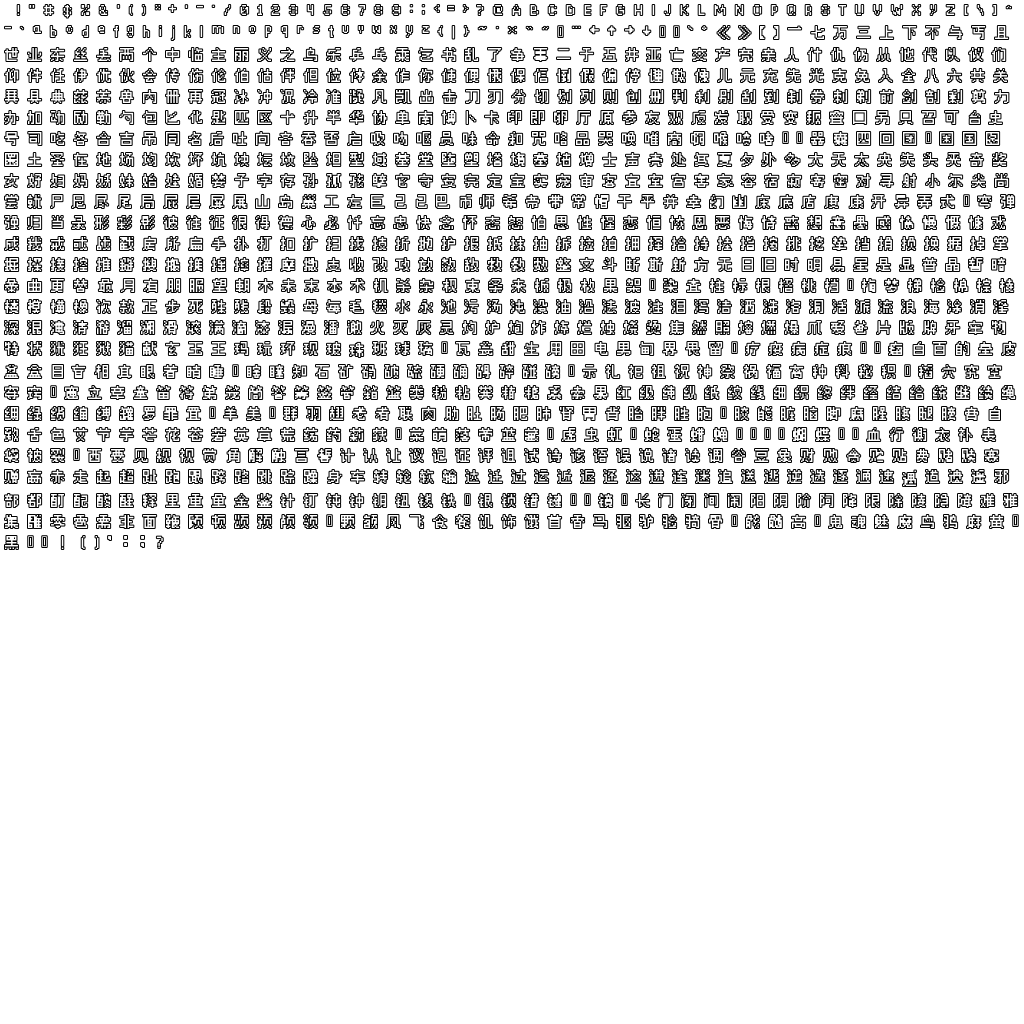
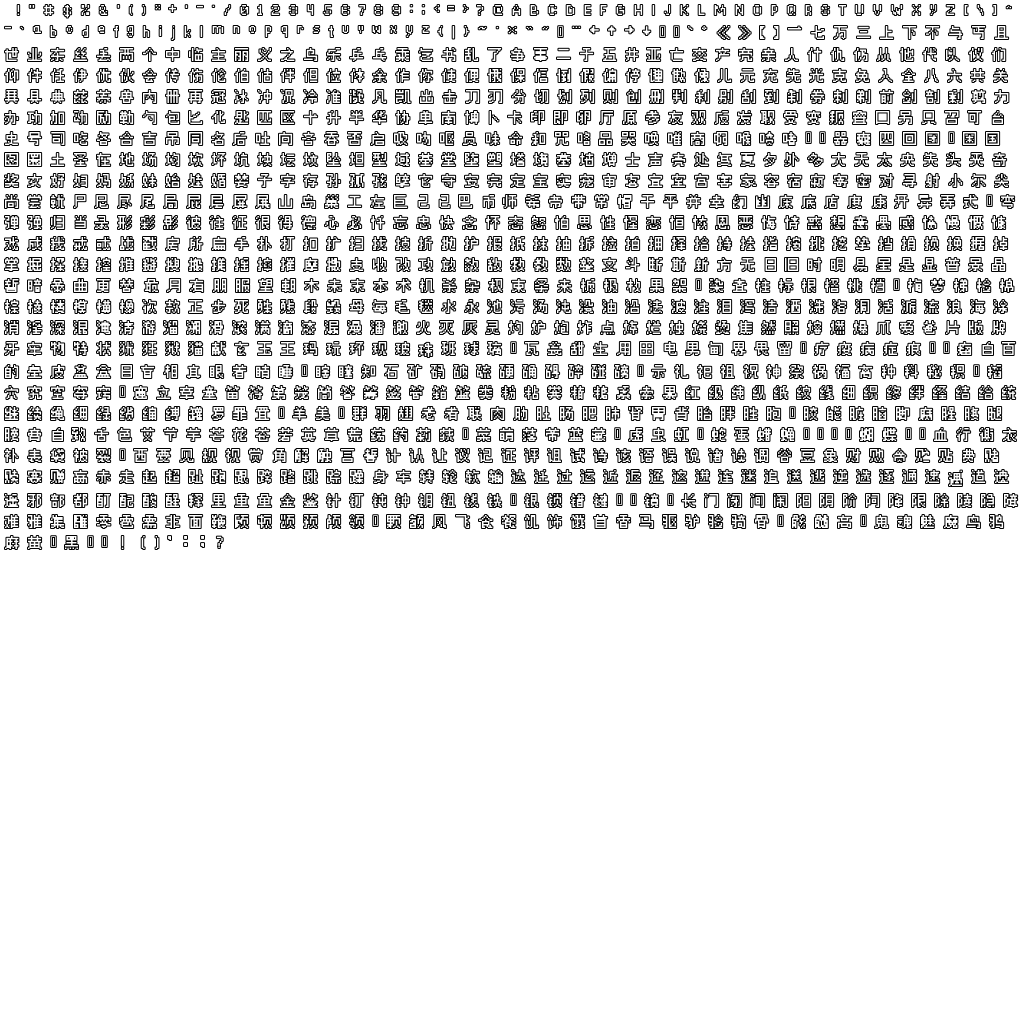
v.0.7.0 更换为steam成就图标，并优化分类

Changed region(s): [[0.0, 0.0938, 1.0, 0.5625]]

diff --git a/tests/mod-contract.test.js b/tests/mod-contract.test.js
@@ -139,6 +139,27 @@ test("F3 mouse hover selects visible tiles and a left-click edge toggles trackin
     "blocked mouse shooting must return the correct value for analog input hooks");
 });
 
+test("F3 untracking keeps the current list position until the next refresh", () => {
+  const menu = read("scripts/ui/menu.lua");
+  const toggle = menu.match(/local function toggleGoal[\s\S]*?\nend\n\nlocal function typedSearchCharacter/);
+  assert.ok(toggle, "toggleGoal must remain the shared keyboard and mouse tracking path");
+  assert.match(toggle[0], /local wasTracked = Tracker\.contains\(state\.tracker, goal\.id\)/);
+  assert.match(toggle[0], /Tracker\.toggle\(state\.tracker, goal\.id\)/);
+  assert.match(toggle[0], /state\.settings\.tracked = state\.tracker\.ids[\s\S]*?save\(\)/,
+    "both tracking directions must persist immediately");
+  assert.match(toggle[0], /if not wasTracked then refreshGoals\(state, context, true\) end/,
+    "only newly tracked goals should trigger an immediate reorder");
+  assert.equal((toggle[0].match(/refreshGoals\(/g) || []).length, 1,
+    "untracking must not have a second unconditional refresh path");
+  assert.doesNotMatch(toggle[0], /state\.menu\.(?:cursor|offset)\s*=/,
+    "untracking must leave the current selection and page untouched");
+  assert.match(menu, /if queryChanged then[\s\S]*?refreshGoals\(state, context, false\)/);
+  assert.match(menu, /Keyboard\.KEY_TAB[\s\S]*?refreshGoals\(state, context, false\)/);
+  assert.match(menu, /Keyboard\.KEY_F3[\s\S]*?refreshGoals\(state, nil, false\)/);
+  assert.match(menu, /toggleGoal\(state, goals\[activatedIndex\], save, context\)/,
+    "keyboard and mouse activation must share the delayed-untracking behavior");
+});
+
 test("F3 consumes only controller-zero gameplay actions owned by menu keys", () => {
   const menu = read("scripts/ui/menu.lua");
   assert.match(menu, /local SHOOT_KEYS = \{/);
@@ -185,7 +206,7 @@ test("reward metadata is normalized once for completion detection and display", 
   assert.match(rewards, /function Rewards\.config/);
   assert.match(rewards, /function Rewards\.display/);
   for (const kind of ["collectible", "trinket", "card", "pickup", "slot", "grid",
-    "character", "area", "challenge", "feature", "other"]) {
+    "character", "monster", "area", "challenge", "feature", "other"]) {
     assert.match(rewards, new RegExp(`\\b${kind}\\b`));
   }
   assert.doesNotMatch(unlocks, /local rewards\s*=\s*{/);
@@ -234,8 +255,9 @@ test("F3 maps achievement-unlocked world entities to semantic reward metadata", 
   assert.match(rewards, /variant=reward\.variant/);
   assert.match(rewards, /subtype=reward\.subtype/);
   assert.match(rewards, /gridType=reward\.gridType/);
-  assert.match(rewards, /return "other"/,
-    "world entity rewards must remain in the existing Other filter");
+  assert.match(rewards, /pickup="pickup"/);
+  assert.match(rewards, /slot="world"/);
+  assert.match(rewards, /grid="world"/);
 });
 
 test("F3 world entity icons use native game actors with static frames and fallback", () => {
@@ -282,17 +304,120 @@ test("F3 world entity icons use native game actors with static frames and fallba
   }
 });
 
-test("F3 localizes and searches world entity reward kinds without adding filters", () => {
+test("F3 exposes every semantic reward group as a single-level filter", () => {
   const goals = read("scripts/data/goals.lua");
+  const rewards = read("scripts/core/rewards.lua");
   const menu = read("scripts/ui/menu.lua");
   const text = read("scripts/ui/text.lua");
-  for (const kind of ["pickup", "slot", "grid"]) {
+  for (const [kind, labelCount] of [["pickup", 4], ["slot", 2], ["grid", 2]]) {
     assert.match(goals, new RegExp(`${kind}="[^"]+"`));
-    assert.equal((text.match(new RegExp(`${kind}="`, "g")) || []).length, 2,
+    assert.equal((text.match(new RegExp(`${kind}="`, "g")) || []).length, labelCount,
       `${kind} must have Chinese and English labels`);
   }
-  assert.match(menu, /local FILTERS = \{ "all", "collectible", "trinket", "card", "other" \}/);
-  assert.doesNotMatch(menu, /local FILTERS = \{[^\n]*"pickup"/);
+  assert.match(menu, /local FILTERS = \{ "all", "collectible", "trinket", "card",\s*\n\s*"character", "monster", "area", "challenge", "pickup", "world",\s*\n\s*"feature", "other" \}/);
+  for (const [filter, labelCount] of [
+    ["character", 4], ["monster", 4], ["area", 4], ["challenge", 4],
+    ["pickup", 4], ["world", 2], ["feature", 4]
+  ]) {
+    assert.equal((text.match(new RegExp(`${filter}="`, "g")) || []).length, labelCount,
+      `${filter} must have Chinese and English filter labels`);
+  }
+  for (const [kind, filter] of [
+    ["collectible", "collectible"], ["trinket", "trinket"], ["card", "card"],
+    ["pickup", "pickup"], ["slot", "world"], ["grid", "world"],
+    ["character", "character"], ["monster", "monster"], ["area", "area"],
+    ["challenge", "challenge"], ["feature", "feature"], ["other", "other"]
+  ]) assert.match(rewards, new RegExp(`${kind}="${filter}"`));
+  for (const aliases of [
+    /collectible="[^"]*item[^"]*道具/, /trinket="[^"]*饰品/,
+    /card="[^"]*卡牌/, /character="[^"]*人物/,
+    /monster="[^"]*monster[^"]*怪物/, /area="[^"]*location[^"]*地点/,
+    /challenge="[^"]*挑战/, /pickup="[^"]*掉落物/,
+    /slot="[^"]*scenery[^"]*机器与场景/, /grid="[^"]*scenery[^"]*机器与场景/,
+    /feature="[^"]*mechanic[^"]*机制/, /other="[^"]*其他/
+  ]) assert.match(goals, aliases);
+  assert.match(menu, /string\.format\(labels\.filterStatus, name, active, #FILTERS\)/);
+});
+
+test("non-standard achievement rewards use explicit semantic metadata", () => {
+  const goals = read("scripts/data/goals.lua");
+  const rewards = read("scripts/core/rewards.lua");
+  const overrides = goals.match(/local rewardOverrides\s*=\s*\{[\s\S]*?\n\}/);
+  assert.ok(overrides, "reward overrides must remain a single auditable table");
+  for (const [kind, ids] of Object.entries({
+    monster: [142, 155, 346, 347, 348],
+    area: [234, 320, 342, 343, 344, 345, 406, 407, 412, 413, 414, 635],
+    challenge: [157, 158, 160, 163, 166, 265, 266, 269, 270, 272, 273, 274,
+      277, 278, 279, 510, 511, 513, 514, 515, 516],
+    feature: [151, 152, 153, 154, 178, 191, 243, 246, 247, 275, 323, 337,
+      341, 593, 617, 638, 639, 640, 641],
+    pickup: [227, 228, 332]
+  })) {
+    for (const id of ids) assert.match(overrides[0],
+      new RegExp(`achievement_${id}\\s*=\\s*\\{kind="${kind}"`),
+      `achievement ${id} must be classified as ${kind}`);
+  }
+  for (const id of [167, 69]) assert.doesNotMatch(overrides[0],
+    new RegExp(`achievement_${id}\\s*=`),
+    `achievement ${id} must remain in the residual Other group`);
+  assert.match(rewards, /observation\.kind == "boss"[\s\S]*?return "monster"/);
+  assert.doesNotMatch(rewards, /challenge #/i,
+    "completion-condition text must not determine the unlocked reward category");
+});
+
+test("all 641 achievements have one audited filter including representative rewards", () => {
+  const dataDir = path.join(root, "scripts/data");
+  const batches = fs.readdirSync(dataDir)
+    .filter((file) => /^achievements_\d+_\d+\.lua$/.test(file));
+  const goals = read("scripts/data/goals.lua");
+  const overrideBlock = goals.match(/local rewardOverrides\s*=\s*\{([\s\S]*?)\n\}/)[1];
+  const overrides = new Map([...overrideBlock.matchAll(
+    /achievement_(\d+)\s*=\s*\{kind="([^"]+)"/g
+  )].map((match) => [Number(match[1]), match[2]]));
+  const observations = new Map();
+  const achievements = new Map();
+
+  for (const file of batches) {
+    const source = read(`scripts/data/${file}`);
+    for (const match of source.matchAll(/achievement_(\d+)\s*=\s*\{kind="([^"]+)"/g))
+      observations.set(Number(match[1]), match[2]);
+    for (const line of source.split(/\r?\n/)) {
+      const row = line.match(/^\s*a\((\d+),/);
+      if (!row) continue;
+      const id = Number(row[1]);
+      const reward = line.match(/reward\("([^"]+)"/);
+      const observation = line.match(/observe\("([^"]+)"/);
+      achievements.set(id, {
+        reward: reward && reward[1] || (/",\s*\d+\s*\),?\s*$/.test(line) ? "collectible" : null),
+        observation: observation && observation[1]
+      });
+    }
+  }
+
+  const filterFor = (id) => {
+    const row = achievements.get(id);
+    const kind = overrides.get(id) || row.reward || row.observation || observations.get(id) || "other";
+    return ({slot: "world", grid: "world", player: "character", boss: "monster",
+      stage: "area", stage_type: "area"})[kind] || kind;
+  };
+  const expected = {
+    1: "character", 474: "character", 5: "monster", 16: "monster",
+    4: "area", 86: "area", 320: "area", 412: "area",
+    166: "challenge", 265: "challenge", 510: "challenge", 33: "pickup",
+    605: "world", 607: "world", 151: "feature", 337: "feature",
+    167: "other", 69: "other"
+  };
+  for (const [id, filter] of Object.entries(expected))
+    assert.equal(filterFor(Number(id)), filter, `achievement ${id} must be ${filter}`);
+
+  assert.equal(achievements.size, 641);
+  const counts = {};
+  for (const id of achievements.keys()) counts[filterFor(id)] = (counts[filterFor(id)] || 0) + 1;
+  assert.deepEqual(counts, {
+    character: 33, collectible: 286, area: 16, monster: 12, other: 65,
+    pickup: 20, trinket: 99, card: 64, feature: 19, challenge: 21, world: 6
+  });
+  assert.equal(Object.values(counts).reduce((sum, count) => sum + count, 0), 641);
 });
 
 test("reward icon renderer uses vanilla graphics with cached sprites", () => {
@@ -445,7 +570,7 @@ test("character reward renderer loads cached vanilla portraits with safe fallbac
 test("F3 visual menu filters rewards and renders condition-to-reward details", () => {
   const menu = read("scripts/ui/menu.lua");
   const text = read("scripts/ui/text.lua");
-  assert.match(menu, /local FILTERS\s*=\s*{\s*"all",\s*"collectible",\s*"trinket",\s*"card",\s*"other"\s*}/);
+  assert.match(menu, /local FILTERS\s*=\s*{\s*"all",\s*"collectible",\s*"trinket",\s*"card",\s*"character",\s*"monster",\s*"area",\s*"challenge",\s*"pickup",\s*"world",\s*"feature",\s*"other"\s*}/);
   assert.match(menu, /Keyboard\.KEY_TAB/);
   assert.match(menu, /filterIndex/);
   assert.match(menu, /RewardIcons\.render/);

diff --git a/docs/testing/f3-visual-menu.tdd.md b/docs/testing/f3-visual-menu.tdd.md
@@ -12,7 +12,8 @@
 ## Journeys covered
 
 1. Open F3 and see 27 reward-oriented entries per page.
-2. Press Tab through All, Items, Trinkets, Cards, and Other; selection resets.
+2. Press Tab through the twelve reward categories; the compact active label and
+   selection reset together.
 3. Move with arrow keys and toggle tracking with Enter or Space.
 4. Read the selected achievement's condition, confirmation state, reward icon,
    type, and ID.
@@ -101,3 +102,59 @@ Isaac. Live-game checks remain for paused and real-time menus, multiple internal
 resolutions, held-key cadence, click-to-track reordering, and multiplayer input
 isolation. No checkpoint commits were created because the approved plan requires
 review before any commit.
+
+## 2026-08-19 stable untracking order
+
+The approved interaction change keeps an achievement at its current list
+position when tracking is removed. Its tracking marker and persisted state
+update immediately, while any later list rebuild restores the current priority
+order. Newly tracked achievements still refresh immediately and move into the
+tracked group.
+
+- RED: `npm.cmd test` ran 78 tests with 77 passing and 1 intended failure for
+  the unconditional `toggleGoal` refresh.
+- GREEN: after separating the track and untrack refresh paths, the same 78 tests
+  all passed.
+- Coverage: `npm.cmd run test:coverage` passed all 78 tests and reported 92.45%
+  lines, 89.87% branches, and 100% functions for the executable JavaScript suite.
+
+| Guarantee | Test | Type | Result |
+|---|---|---|---|
+| Untracking saves immediately without rebuilding the list; tracking still refreshes and both keyboard and mouse use the same path | `F3 untracking keeps the current list position until the next refresh` | contract | PASS |
+| Reopening F3, search changes, Tab filtering, relevance/completion changes, or another successful track may rebuild the list normally | complete F3 contract suite | regression | PASS |
+
+Live-game confirmation remains for keyboard and mouse untracking on both paused
+and real-time F3 menus. No checkpoint commits were created because the approved
+plan requires review before any commit.
+
+## 2026-08-22 semantic reward filters
+
+The former catch-all Other filter is split into a single Tab cycle covering All,
+Items, Trinkets, Cards, Characters, Monsters, Locations, Challenges, Pickups,
+Machines & Scenery, Features, and the residual Other group. The active category
+is rendered as one compact localized label with its position in the cycle.
+
+- RED: the focused contract run executed 6 relevant tests with 5 intended
+  failures for the missing kind, filter map, metadata overrides, and compact UI.
+- GREEN: the same focused run passed all 6 tests after the implementation.
+- Search-alias review RED/GREEN: the focused filter contract first failed on
+  missing localized category aliases, then passed after all twelve category
+  names were made searchable in English and Chinese.
+- Regression: `npm.cmd test` passed all 91 tests.
+- Coverage: `npm.cmd run test:coverage` passed all 91 tests and reported 94.77%
+  lines, 82.61% branches, and 90.32% functions.
+- Catalog audit: all 641 achievements resolve to exactly one concrete filter;
+  33 playable characters are in Characters while co-player babies remain Other.
+
+| Guarantee | Test | Type | Result |
+|---|---|---|---|
+| Tab cycles the twelve filters while search still composes with the active filter | `F3 exposes every semantic reward group as a single-level filter` | contract | PASS |
+| Boss observations and audited non-standard rewards resolve to monster, location, challenge, pickup, or feature metadata without condition-text guessing | `non-standard achievement rewards use explicit semantic metadata` | contract | PASS |
+| All 641 achievements enter exactly one concrete group, including every representative ID in the approved plan | `all 641 achievements have one audited filter including representative rewards` | catalog audit | PASS |
+| Pickups have their own filter while machines and grid entities share Machines & Scenery | `F3 maps achievement-unlocked world entities to semantic reward metadata` | contract | PASS |
+| New Chinese labels are present in the regenerated bundled font | `bundled LanaPixel assets are complete` | resource | PASS |
+| Existing search, tracking, icon, pause, import, and HUD behavior remains intact | complete `npm.cmd test` suite | regression | PASS |
+
+The repository already contained uncommitted F3 untracking changes, so no TDD
+checkpoint commits were created. Live-game confirmation remains for both
+languages, narrow internal resolutions, empty filters, and the full Tab cycle.

diff --git a/README.md b/README.md
@@ -7,7 +7,7 @@
 - HUD 持续显示成就的具体完成条件，而非仅显示成就名称。
 - 角色通关标记类目标会按当前楼层拆成“当前步骤 + 下一步”，逐层列出本层可进入的具体普通/支线楼层，覆盖 Mom's Heart、Isaac、Satan、Boss Rush、???、羔羊、超级撒但、究极贪婪、死寂、精神错乱、Mother 和祸兽路线；最后入口标黄，错过路线标红，R Key 或合法替代方式可使路线重新恢复。
 - 路线提示会检查所有玩家当前持有或房间中实际出现的关键道具、卡牌和饰品，仅在能帮助当前步骤时显示对应替代方案。Mother 路线会跟踪镜像世界、两块菜刀碎片、陵墓肉门和尸宫；祸兽路线会跟踪奇怪门、爸爸的便条、回溯与家。
-- `F3` 打开居中安全区域内的奖励可视化目标菜单：方向键或长按连续选择，鼠标悬停选择并可左键切换追踪，`Tab` 筛选奖励类型，`Enter`/`Space` 也可切换追踪，最多同时追踪三个目标。
+- `F3` 打开居中安全区域内的奖励可视化目标菜单：方向键或长按连续选择，鼠标悬停选择并可左键切换追踪，`Tab` 在全部、道具、饰品、卡牌、人物、怪物、地点、挑战、掉落物、机器与场景、机制和其他奖励间循环筛选，`Enter`/`Space` 也可切换追踪，最多同时追踪三个目标。取消追踪时目标会留在当前位置，直到菜单因重新打开、搜索、筛选或状态变化而刷新。
 - 在 F3 菜单按 `/` 可用英文、数字或缩写进行模糊搜索；搜索覆盖中英文成就名称、解锁奖励、完成条件、地点、所需角色/道具、奖励类型和编号，并可与 `Tab` 分类组合使用。
 - `F3` 会优先排列正在追踪的目标，再依次排列当前角色（多人时为任一玩家）、本局可通过安卡、碎安卡、犹大的影子、拉撒路的破布、寻人启事或遥控器转换后完成、仅限其他角色、以及已完成的目标；潜在转换目标以琥珀色 `~` 标记，其他角色目标灰显，两者都仍可选择追踪。
 - 菜单直接显示游戏内道具、饰品、卡牌图标和原版人物肖像，并为区域、挑战、机制和其他奖励提供类型图标。

diff --git a/docs/testing/f3-world-entity-icons.tdd.md b/docs/testing/f3-world-entity-icons.tdd.md
@@ -22,3 +22,10 @@ The guarantees were derived from the approved F3 entity-icon plan. A player brow
 ## Known gap
 
 Automated tests cannot render Isaac's virtual resources. Final visual confirmation of actor pivots, texture-replacement compatibility, and status tinting still requires opening F3 in Repentance and checking the 23 achievement IDs at both icon sizes.
+
+## Superseded filter placement
+
+The 2026-08-22 semantic-filter update supersedes the original “remain in Other”
+guarantees above: pickups now have a dedicated filter, while machines and grid
+entities share the Machines & Scenery filter. Their native icon behavior is
+unchanged.
